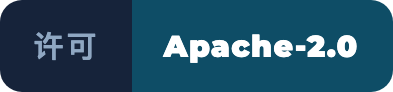
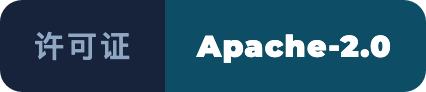
README: tighten the masthead and the badge row
The badges sit on one line, the licence badge says 许可证, and the input
section's heading names what the reader gets rather than counting modes.

diff --git a/design/readme/build.py b/design/readme/build.py
@@ -2,7 +2,8 @@
 """Regenerates the images the README shows, in docs/images/readme/.
 
 This is a design tool, not part of the build: it needs macOS with Google
-Chrome (text, gradients, layout) and Pillow (cropping and the JPEGs). The
+Chrome (text, gradients, layout), Pillow (cropping and the JPEGs), and Xcode's
+ictool (the app icon). The
 wordmark is the app's own Montserrat Black at the brand's 0.18em tracking, and
 the surfaces use the deep-blue tokens in Sources/SillMenuBar/MacDesign.swift.
 
@@ -160,12 +161,6 @@ HERO_BODY = """<div class="card">
 </div>"""
 
 
-def hero(work, theme):
-    css = HERO_CSS.format(**HERO_THEMES[theme])
-    body = HERO_BODY.format(v=V, icon=work.icon.as_uri())
-    return work.render(f"hero-{theme}", body, css, 1200, 390)
-
-
 # ------------------------------------------------------- the Bilibili button
 
 CTA_CSS = """
@@ -235,7 +230,7 @@ BADGES = [
     ("macOS", "27+", "#0B63C6", "#7FE3DC"),
     ("iOS · iPadOS", "27.1+", "#0B63C6", "#7FE3DC"),
     ("Swift", "Apple native", "#0D5C8C", "#8FD9F6"),
-    ("许可", "Apache-2.0", "#0E4D66", "#9BE8E0"),
+    ("许可证", "Apache-2.0", "#0E4D66", "#9BE8E0"),
 ]
 
 

diff --git a/README.md b/README.md
@@ -8,7 +8,7 @@
 
 # DUO你电脑
 
-**把 iPhone Duo 折成一台远程 Mac 笔记本**<br><sub>iPhone Duo 原生远程 Mac 桌面 · 键盘 / 触控板 / 桌面共享</sub>
+**把 iPhone Duo 折成一台远程 Mac 笔记本**<br><sub>DuoDesk · iPhone Duo 原生远程 Mac 桌面 · 键盘 / 触控板 / 桌面共享</sub>
 
 <br>
 
@@ -18,10 +18,7 @@
 
 <br>
 
-<a href="docs/INSTALL.md"><img alt="macOS 27 及以上" src="docs/images/readme/badge-0.png" height="26"></a>
-<a href="docs/INSTALL.md"><img alt="iOS 与 iPadOS 27.1 及以上" src="docs/images/readme/badge-1.png" height="26"></a>
-<a href="docs/DEVELOPMENT.md"><img alt="Swift · Apple 原生" src="docs/images/readme/badge-2.png" height="26"></a>
-<a href="LICENSE"><img alt="Apache-2.0 许可证" src="docs/images/readme/badge-3.png" height="26"></a>
+<a href="docs/INSTALL.md"><img alt="macOS 27 及以上" src="docs/images/readme/badge-0.png" height="26"></a> <a href="docs/INSTALL.md"><img alt="iOS 与 iPadOS 27.1 及以上" src="docs/images/readme/badge-1.png" height="26"></a> <a href="docs/DEVELOPMENT.md"><img alt="Swift · Apple 原生" src="docs/images/readme/badge-2.png" height="26"></a> <a href="LICENSE"><img alt="Apache-2.0 许可证" src="docs/images/readme/badge-3.png" height="26"></a>
 
 </div>
 
@@ -42,7 +39,7 @@
 
 <div align="center">
 
-### 三种输入，一套手感
+### 键盘、触控板，与你的 Mac
 
 </div>
 
